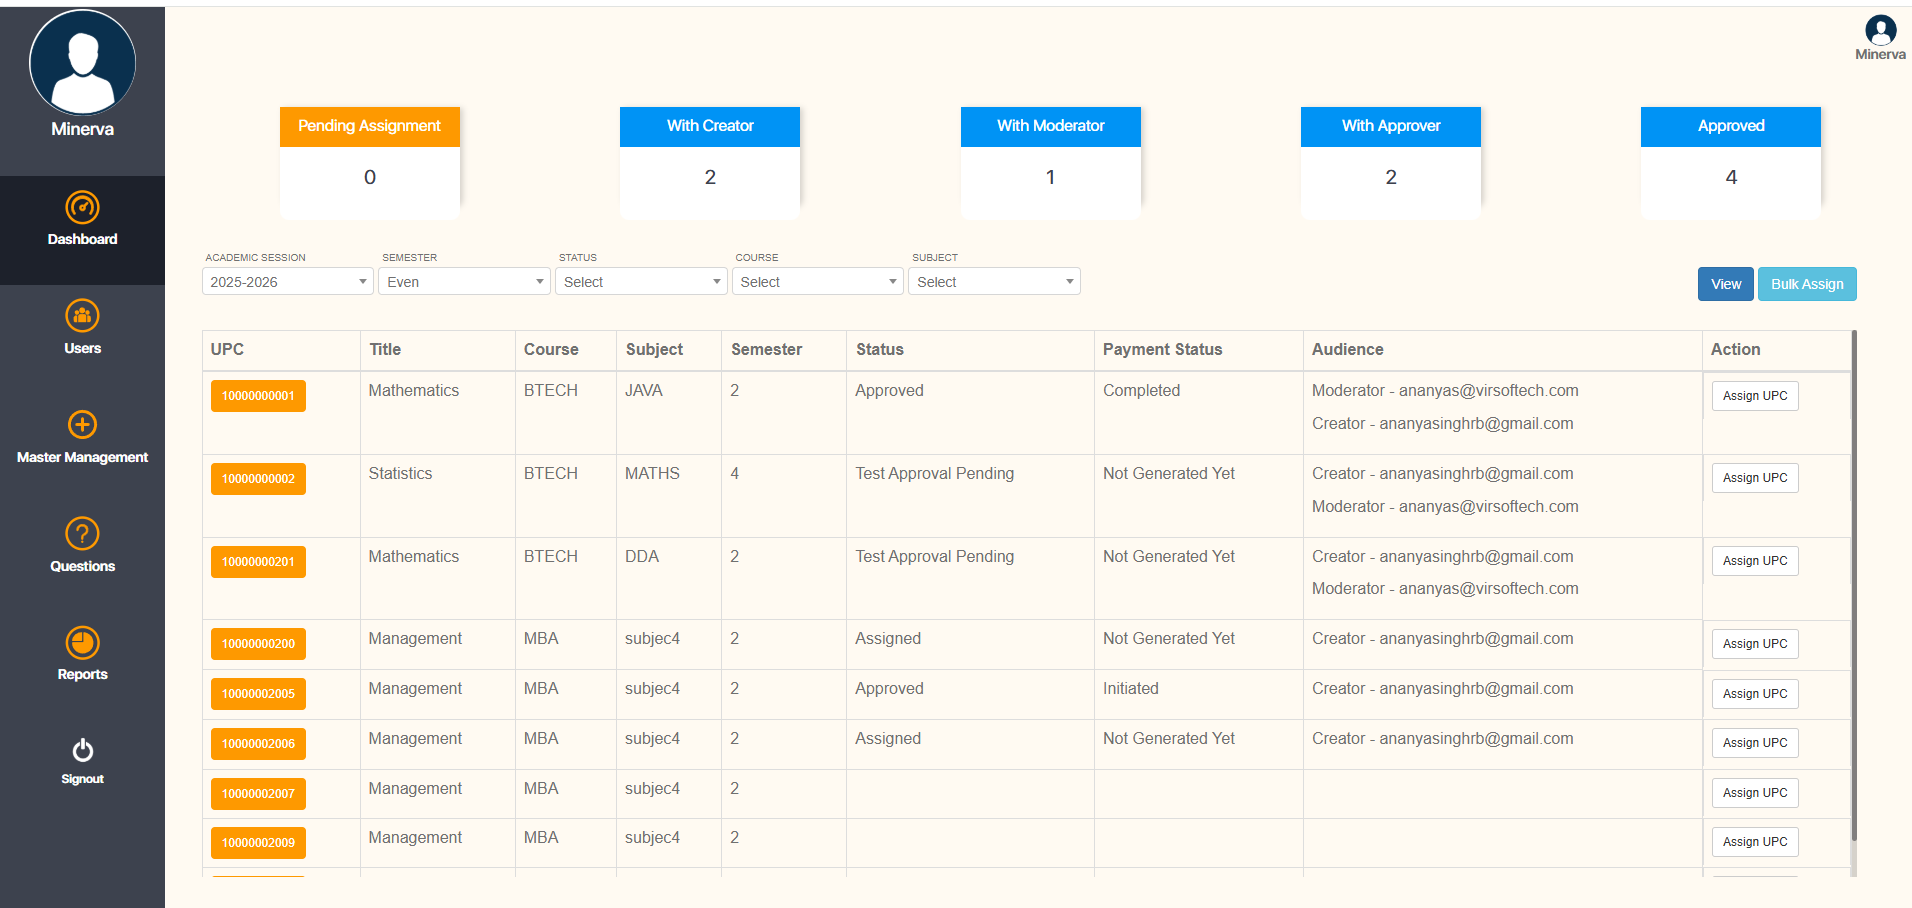
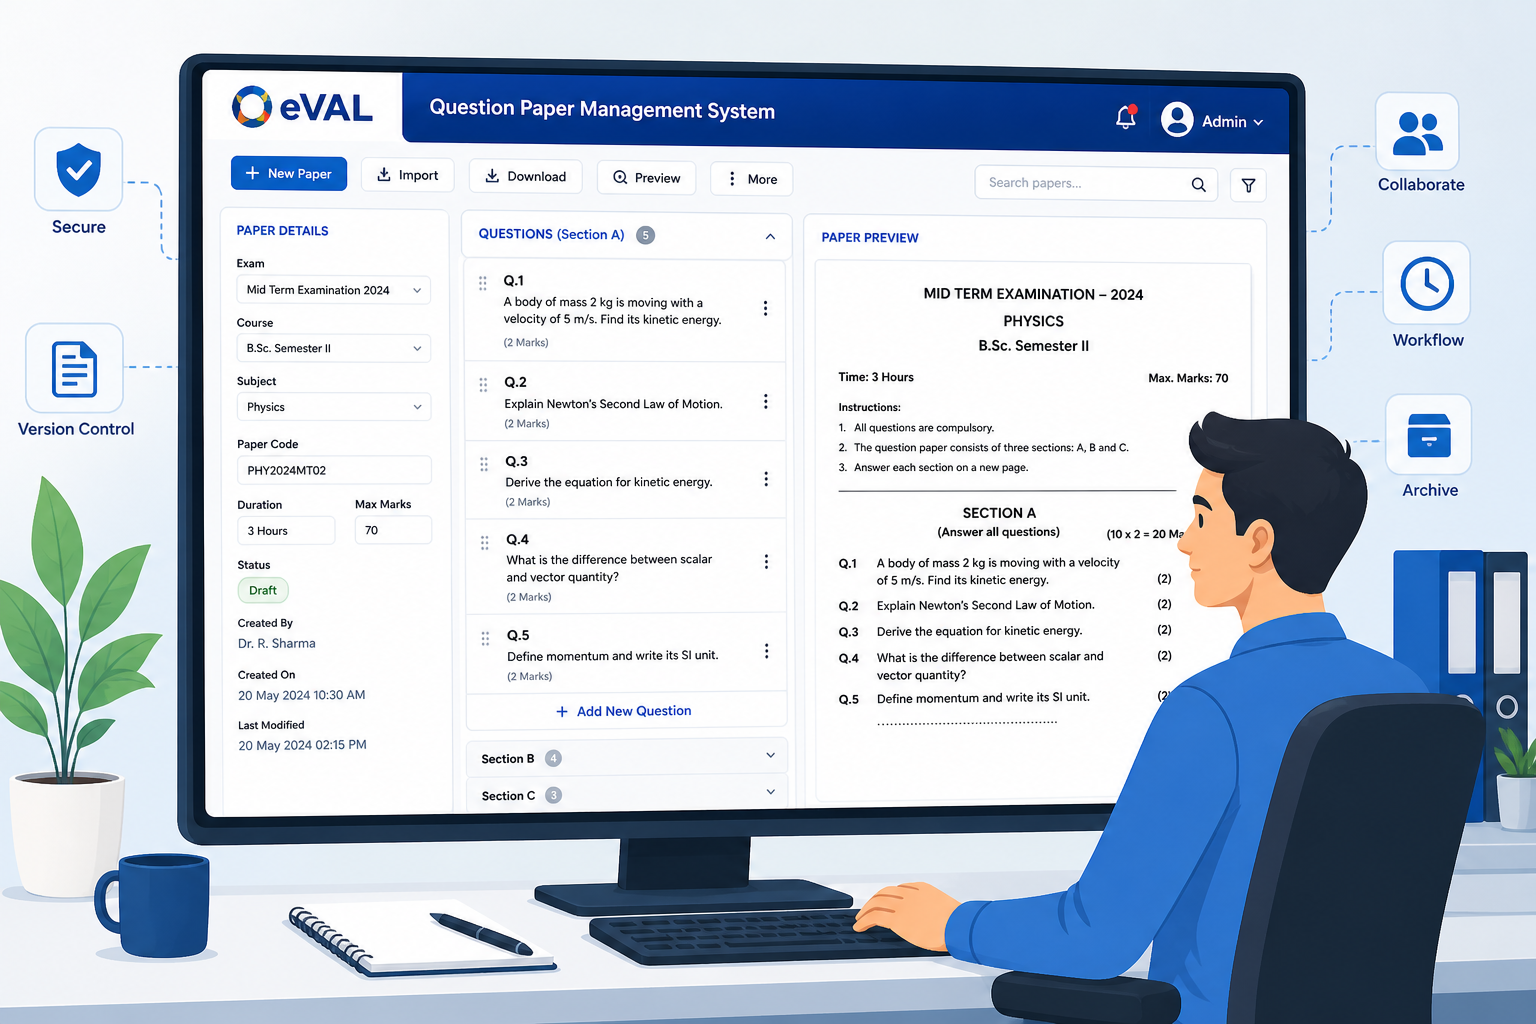
image updated

diff --git a/src/pages/solutions/LMSPage.jsx b/src/pages/solutions/LMSPage.jsx
@@ -92,7 +92,7 @@ const LMSPage = () => {
               </div>
             </div>
             <div style={{ position: 'relative', maxWidth: '680px', marginLeft: 'auto' }}>
-              <img src="/assets/images/LMS.png" alt="LMS Dashboard" style={{ width: '100%', height: 'auto', borderRadius: '2rem', boxShadow: '0 30px 60px rgba(0,0,0,0.12)', border: '1px solid var(--border)' }} />
+              <img src="/assets/images/LMS.avif" alt="LMS Dashboard" style={{ width: '100%', height: 'auto', borderRadius: '2rem', boxShadow: '0 30px 60px rgba(0,0,0,0.12)', border: '1px solid var(--border)' }} />
             </div>
           </div>
         </div>

diff --git a/src/pages/solutions/OlympiadPage.jsx b/src/pages/solutions/OlympiadPage.jsx
@@ -171,7 +171,7 @@ const OlympiadPage = () => {
               <Reveal delay={0.2}>
                 <div style={{ position: 'relative', zIndex: 1 }}>
                   <img
-                    src="/assets/images/olympiad_hero.png"
+                    src="/assets/images/olympiad_hero.webp"
                     alt="Olympiad Portal Dashboard"
                     style={{ width: '100%', height: 'auto', borderRadius: '2rem', boxShadow: '0 25px 50px -12px rgba(0, 0, 0, 0.15)', border: '1px solid var(--border)' }}
                   />